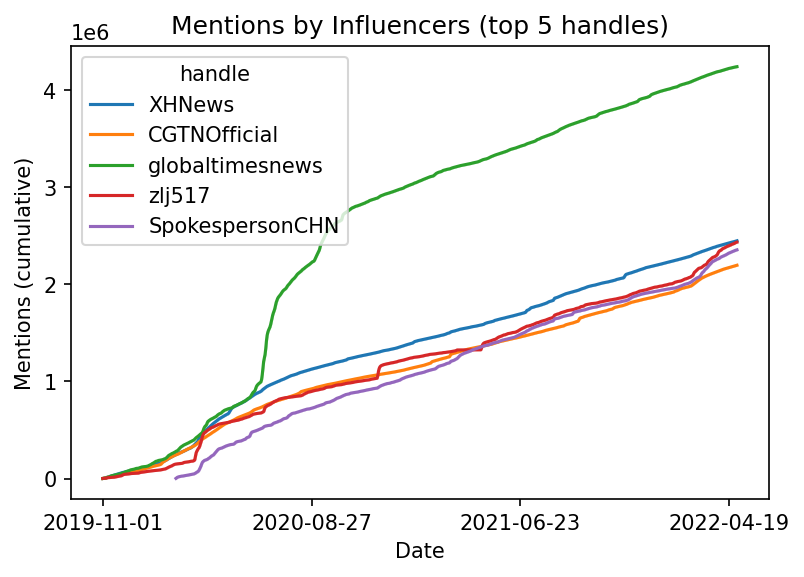
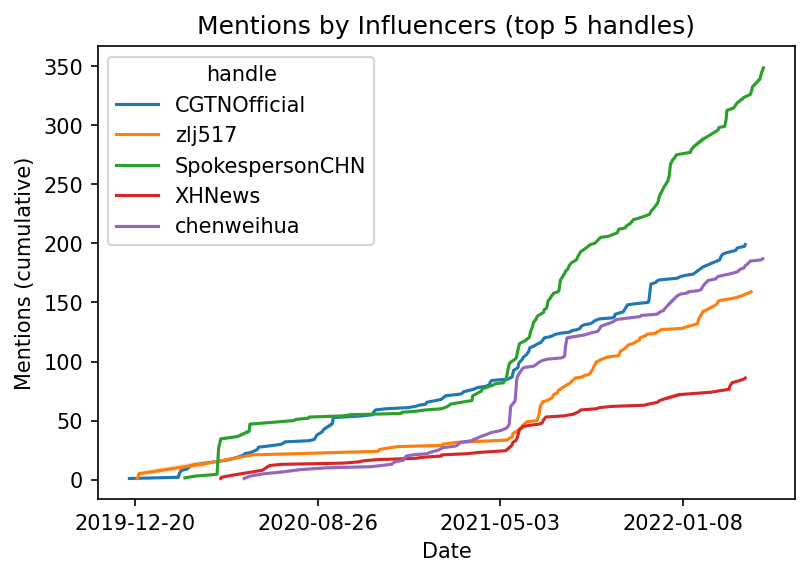
fixing a mistake

diff --git a/networks/src/influencers.py b/networks/src/influencers.py
@@ -47,8 +47,8 @@ plot_overall(d_merged, outpath, "cumulative_mentions.png")
 def plot_top_n(d, n, outpath, outname): 
     d_sorted = d.groupby('mentionee').size().reset_index(name = 'count').sort_values('count', ascending=False).head(n)
     d_filtered = d.merge(d_sorted, on = "mentionee", how = "inner")
-    print(f"total mentions: {d}")
-    print(f"mentions to top-10: {d_filtered}")
+    print(f"total mentions: {len(d)}")
+    print(f"mentions to top-{n}: {len(d_filtered)}")
     d_filtered = d_filtered.sort_values('created_at', ascending=True)
     d_filtered['cumsum'] = d_filtered.groupby('mentionee').cumcount()+1
     d_filtered = d_filtered.rename(columns = {'mentionee': 'handle'})
@@ -64,4 +64,4 @@ def plot_top_n(d, n, outpath, outname):
     plt.ylabel('Mentions (cumulative)')
     plt.savefig(f"{outpath}/{outname}", bbox_inches="tight")
 
-plot_top_n(d, 5, outpath, "cumulative_top5.png")
+plot_top_n(d_merged, 5, outpath, "cumulative_top5.png")
